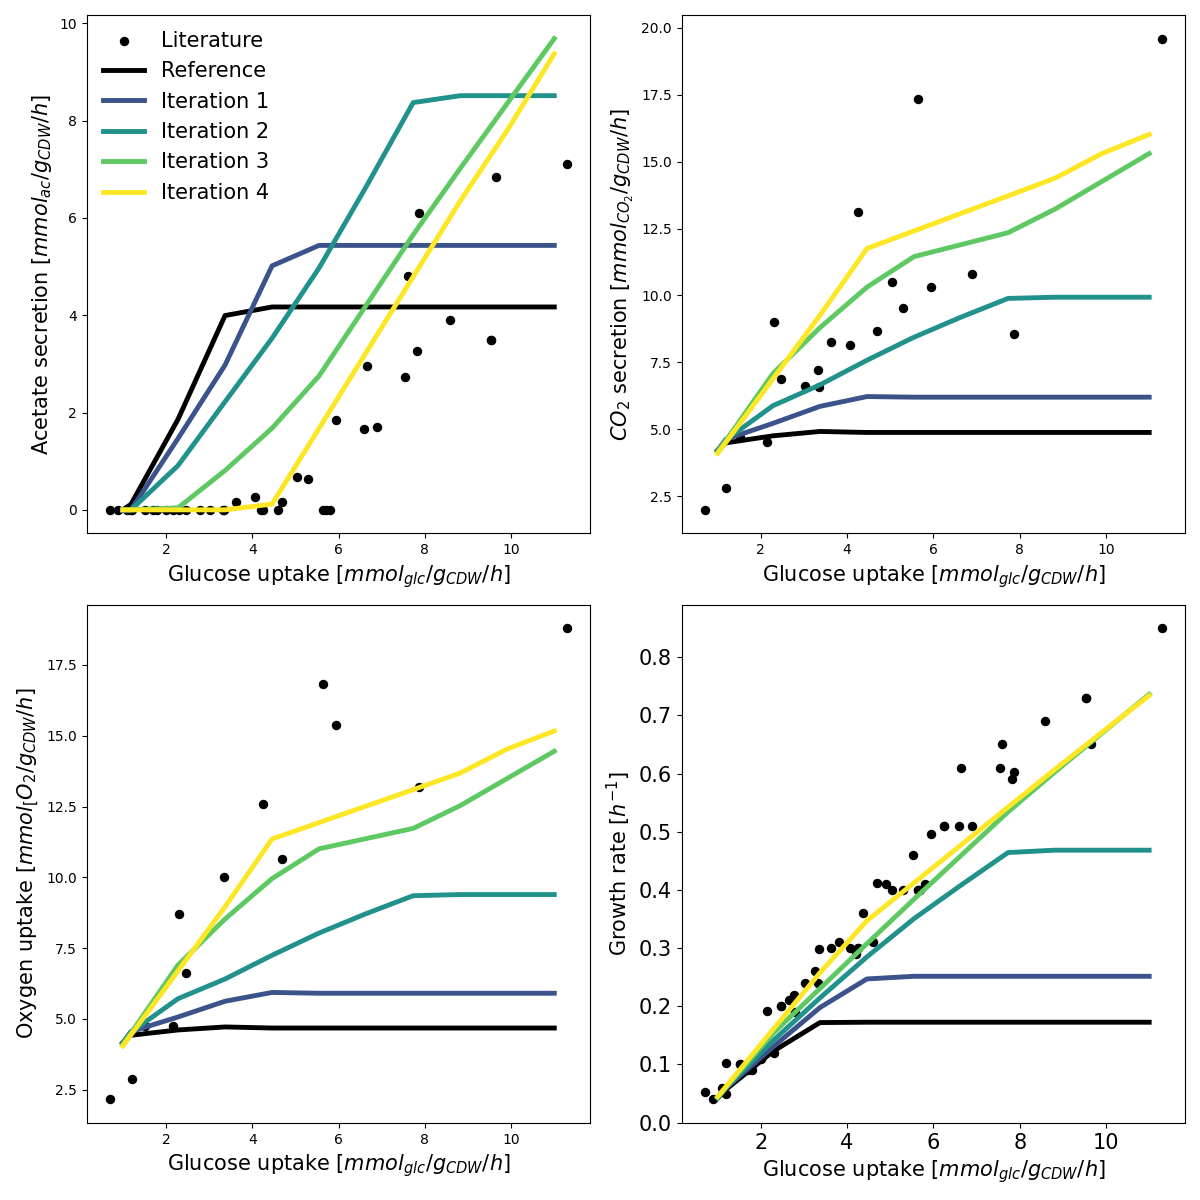
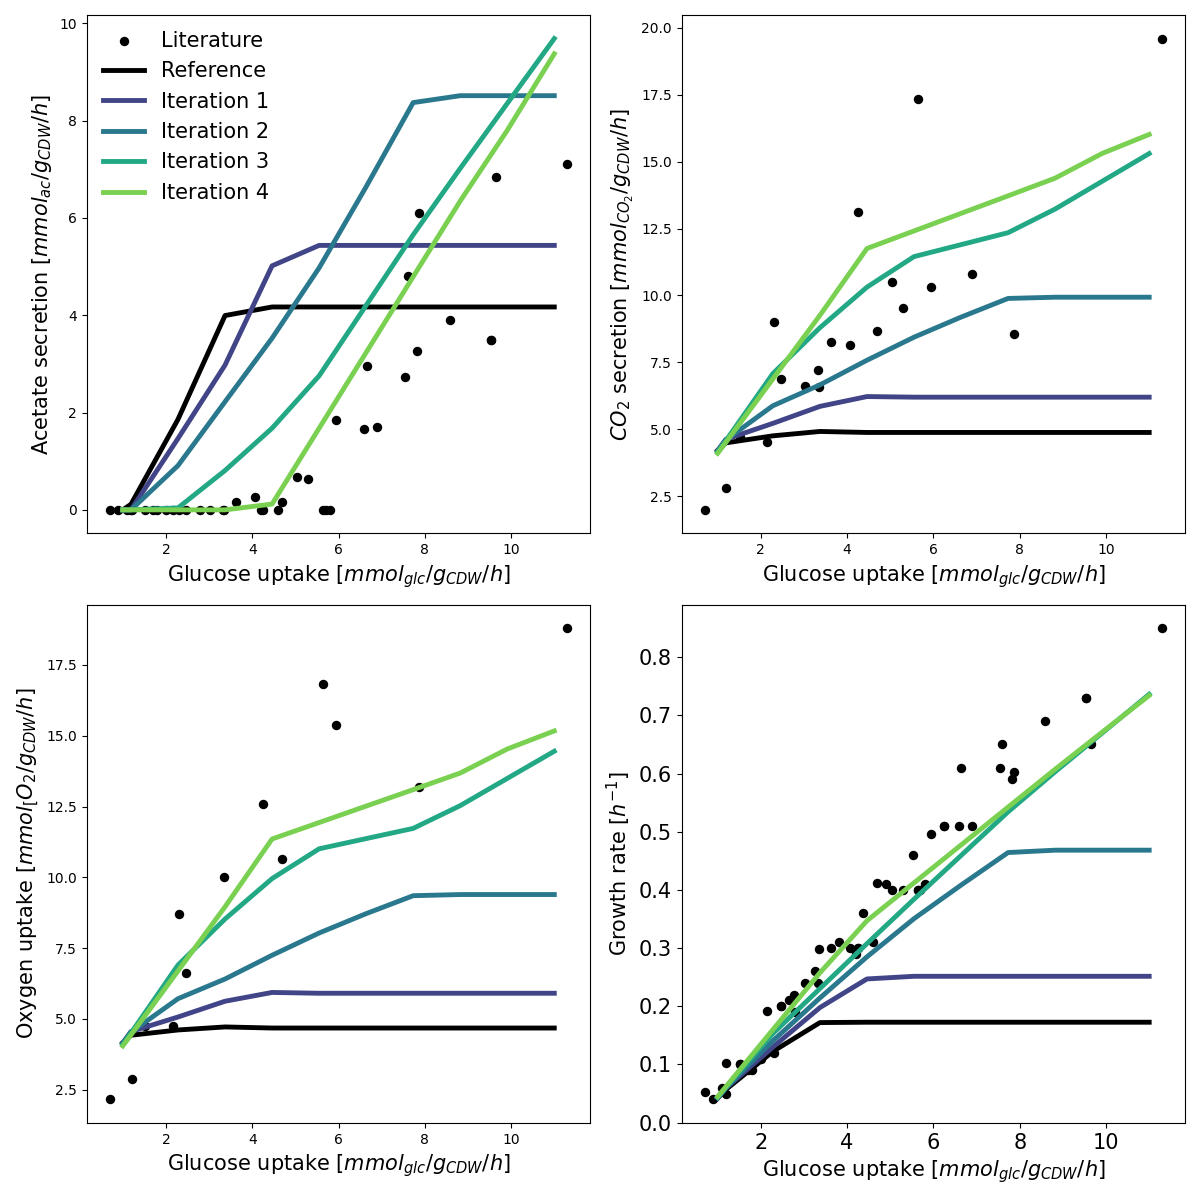
some touchups

diff --git a/Scripts/Visualization/PAMparametrizer_progress_cleaned_figure.py b/Scripts/Visualization/PAMparametrizer_progress_cleaned_figure.py
@@ -30,7 +30,7 @@ def plot_simulation(fig, axs, fluxes: pd.DataFrame, substrate_rates:list, reacti
         # adjust color to visualize progress
         # get viridis color palette
         cmap = plt.get_cmap('viridis')
-        color = to_hex(cmap(iteration / (max_iteration)))
+        color = to_hex(cmap(iteration / (max_iteration+1)))
 
     label = 'Iteration ' + str(iteration)
     if iteration == 0:
